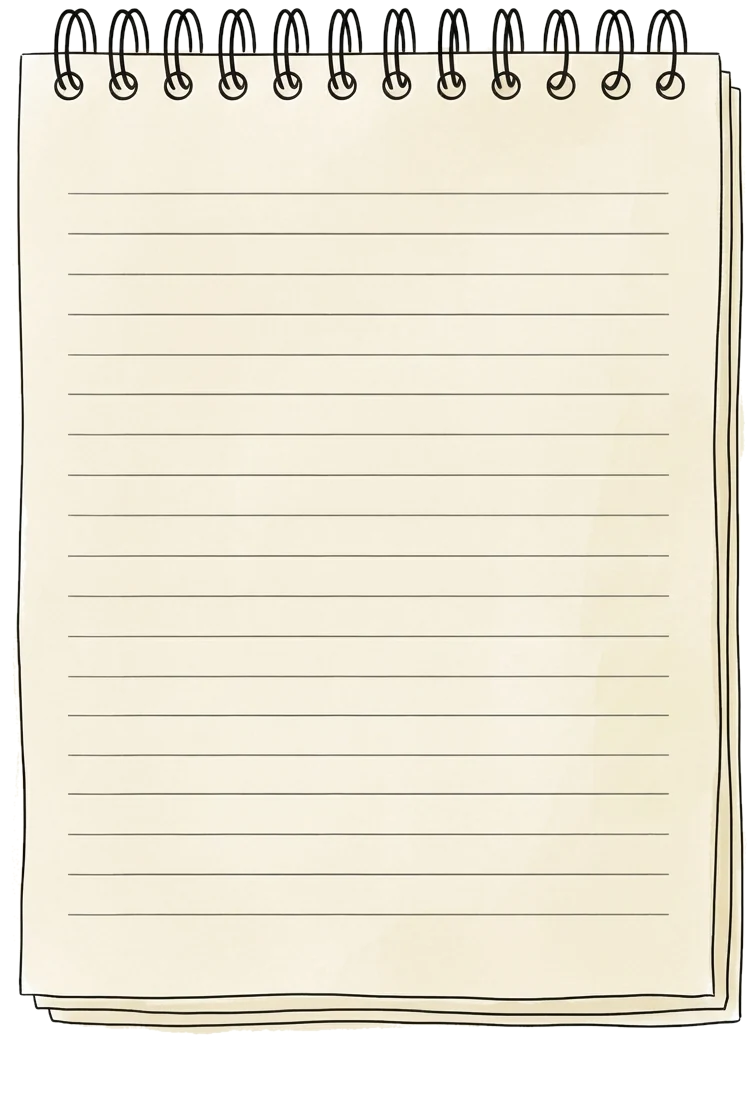
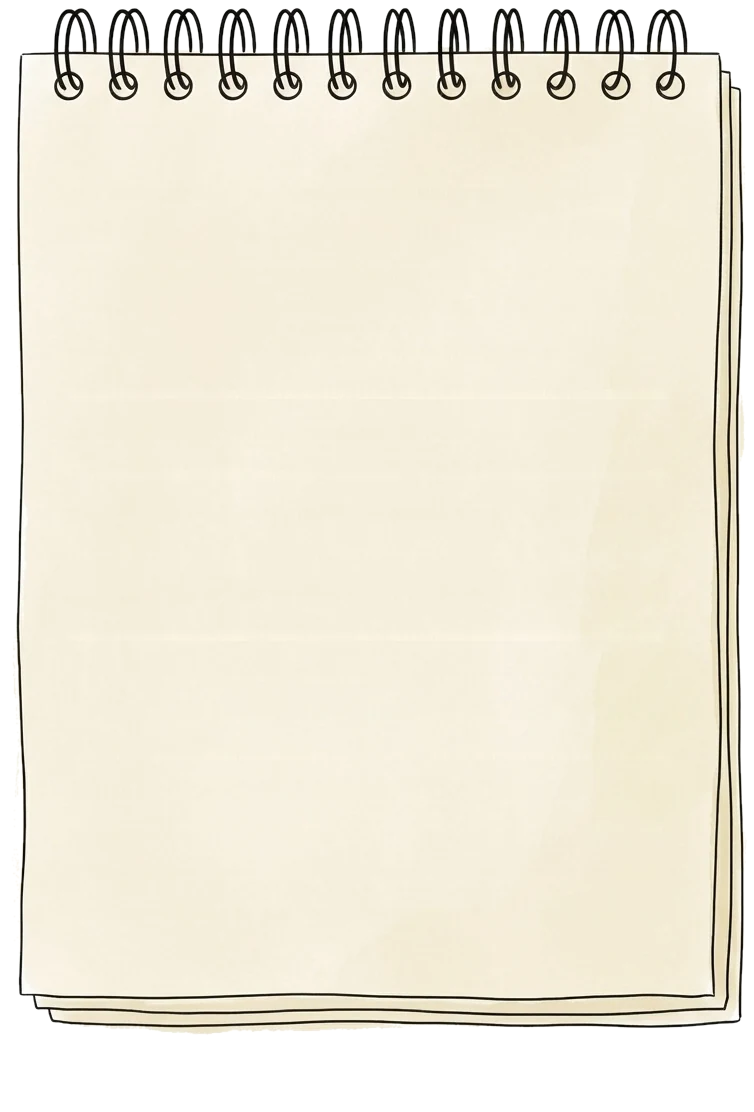
Blank phone pad page with roomier spacing
The ruled lines are erased from the page drawing, so the words use normal
spacing, the doodle is bigger and the page no longer feels crowded.

diff --git a/index.html b/index.html
@@ -645,24 +645,21 @@
     .book-stage .label { left: 26.1%; right: 26%; top: 63.4%; width: auto; height: 18.4%; }
     .label b { font-size: 9cqw; }
     .label span { font-size: 5.5cqw; }
-    /* The words sit on the drawing's ruled lines: one every 40px of the
-       1112px drawing (5.32cqw), the first at y 193 (25.6cqw). Every line
-       of text is one rule high, and the text starts on the fourth rule.
+    /* A blank page (the ruled lines were erased from the drawing): the
+       doodle and date at the top, the words below with room to breathe.
        The date is already big at the top, so it isn't repeated. */
-    .book-stage .page { left: 10%; right: 12%; width: auto; padding: 0; }
-    .book-stage .page-picture { top: 13cqw; height: 28.5cqw; gap: 1cqw; justify-content: flex-start; }
-    .page-picture .page-when { line-height: 1.1; }
-    .page-picture .page-when { font-size: 11cqw; }
+    .book-stage .page { left: 11%; right: 13%; width: auto; padding: 0; }
+    .book-stage .page-picture { top: 15cqw; height: 40cqw; gap: 2cqw; justify-content: flex-start; }
+    .page-picture .page-when { font-size: 10cqw; line-height: 1.1; }
     html:lang(ar) .page-picture .page-when { font-size: 7.5cqw; }
-    .page-picture img { width: 30cqw; height: 16cqw; }
-    .book-stage .page-text { top: 41.56cqw; height: 79.8cqw; gap: 0; }
-    .book-stage .page-text > * { line-height: 5.32cqw; }
+    .page-picture img { width: 34cqw; height: 24cqw; }
+    .book-stage .page-text { top: 59cqw; height: 66cqw; gap: 1.6cqw; }
     .page-text .page-when { display: none; }
-    .page-text h3 { font-size: 6.6cqw; }
-    html:lang(ar) .page-text h3 { font-size: 5.6cqw; line-height: 5.32cqw; }
-    .page-text .page-place { font-size: 4cqw; }
-    .page-text p { font-size: 4cqw; }
-    html:lang(ar) .page-text p { font-size: 4.1cqw; line-height: 5.32cqw; }
+    .page-text h3 { font-size: 7.4cqw; line-height: 1.15; }
+    html:lang(ar) .page-text h3 { font-size: 6cqw; line-height: 1.6; }
+    .page-text .page-place { font-size: 4cqw; line-height: 1.5; }
+    .page-text p { font-size: 4.1cqw; line-height: 1.7; }
+    html:lang(ar) .page-text p { font-size: 4.4cqw; line-height: 1.8; }
     .page-num { font-size: 5cqw; }
     .pad-leaf { position: absolute; inset: 4.77% 0 0; z-index: 2; transform-origin: top center; transform-style: preserve-3d; pointer-events: none; }
     .pad-leaf .face { position: absolute; inset: 0; overflow: hidden; backface-visibility: hidden; -webkit-backface-visibility: hidden; }
